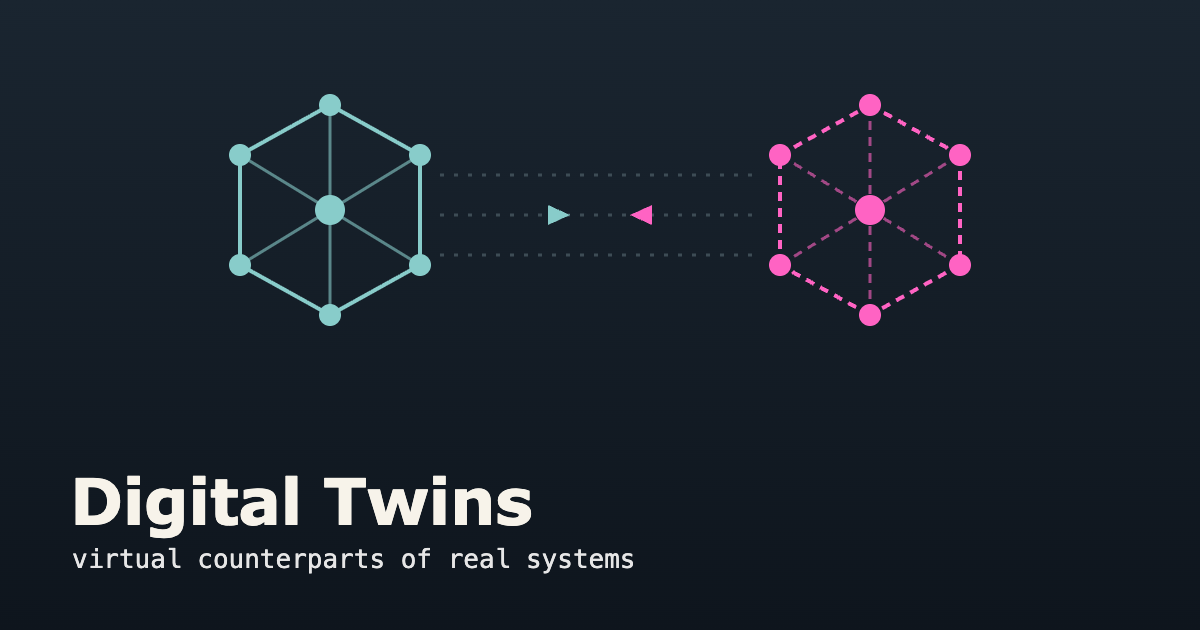
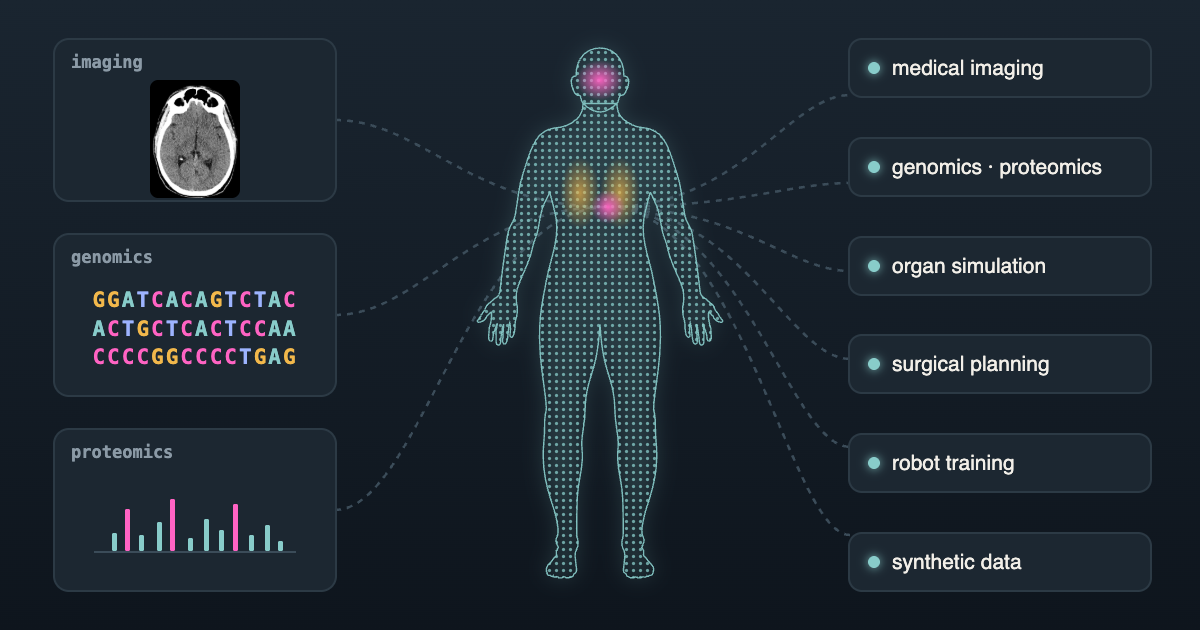
Write the Digital Twins project page with a virtual-human thumbnail
The page sets out the problem, four research questions and the Virtual
Humans goal. The thumbnail shows imaging, genomic and proteomic data
flowing into a virtual human that feeds healthcare tasks; its CT slice and
silhouette are CC0 (provenance in figures/digitaltwins_thumbnail).

diff --git a/pages/works/digital-twins.js b/pages/works/digital-twins.js
@@ -1,24 +1,77 @@
-import { Container, Badge, List, ListItem } from '@chakra-ui/react'
-import { Title, WorkImage, Meta } from '../../components/work'
+import {
+  Container,
+  Badge,
+  Heading,
+  OrderedList,
+  ListItem
+} from '@chakra-ui/react'
+import { Title, WorkImage } from '../../components/work'
 import P from '../../components/paragraph'
 import Layout from '../../components/layouts/article'
+import Section from '../../components/section'
+import Publication from '../../components/publication'
+import publications from '../../lib/publications'
 import thumb from '../../public/images/works/digitaltwins_eyecatch.png'
+
+const papers = publications.filter(p =>
+  (p.projects || []).includes('digital-twins')
+)
 
 const Work = () => (
   <Layout title="Digital Twins">
-    <Container>
+    <Container pb={8}>
       <Title>
         Digital Twins <Badge>Research</Badge>
       </Title>
-      <P>Details coming soon.</P>
-      <List ml={4} my={4}>
+      <WorkImage
+        src={thumb.src}
+        alt="A patient's imaging, genomic and proteomic data flowing into a virtual human, which feeds tasks such as organ simulation, surgical planning, robot training and synthetic data"
+      />
+      <P>
+        Medicine still learns mostly from real patients. Every new drug, device,
+        surgical plan or AI model is tested on people, or on data collected from
+        them one modality at a time: imaging shows anatomy, sequencing shows the
+        genome, proteomics shows molecular state, and no single model ties them
+        together into a patient we can safely run experiments on. This project
+        asks how to build digital twins: computational models of a
+        patient&apos;s organs and biology that can be simulated, queried and
+        perturbed in place of the real person. Four questions guide it:
+      </P>
+      <OrderedList spacing={0.5} my={3} pl={10}>
         <ListItem>
-          <Meta>Area</Meta>
-          <span>Digital twins</span>
+          How can imaging, genomics and proteomics be fused into one model that
+          stays consistent from molecules to cells to organs?
         </ListItem>
-      </List>
+        <ListItem>
+          Can a twin built from a patient&apos;s own scans predict how an organ
+          responds to a drug, a device or a surgical intervention?
+        </ListItem>
+        <ListItem>
+          Can a twin generate realistic, labelled synthetic data to train
+          medical AI and surgical robots without exposing patient records?
+        </ListItem>
+        <ListItem>
+          How do we validate a twin against the real patient, so a clinician
+          knows when its predictions can be trusted?
+        </ListItem>
+      </OrderedList>
+      <P style={{ textIndent: 0 }}>
+        Our final goal is Virtual Humans: digital twins of the whole patient
+        that can serve any task in healthcare, from imaging and multimodal
+        genomics and proteomics to organ studies, surgical planning, training
+        robotic models and generating synthetic data.
+      </P>
 
-      <WorkImage src={thumb.src} alt="Digital Twins" />
+      {papers.length > 0 && (
+        <Section delay={0.1}>
+          <Heading as="h3" variant="section-title">
+            Related Publications
+          </Heading>
+          {papers.map(p => (
+            <Publication key={p.title} p={p} />
+          ))}
+        </Section>
+      )}
     </Container>
   </Layout>
 )

diff --git a/figures/digitaltwins_thumbnail/gen.py b/figures/digitaltwins_thumbnail/gen.py
@@ -1,0 +1,72 @@
+"""Digital Twins thumbnail (1200x630): patient data -> virtual human -> healthcare tasks.
+Assets (both CC0, Wikimedia Commons): 'CT of a normal brain, axial 22.png' (cropped, ct.png)
+and 'Human silhouette gender neutral front.svg' by Sebastian Wallroth (path in human_d.txt)."""
+import sys, os, random
+here = os.path.dirname(os.path.abspath(sys.argv[0])); out = sys.argv[1]
+D = open(os.path.join(here, "human_d.txt")).read()
+TEAL, PINK, AMBER, MUT = "#88ccca", "#ff63c3", "#f2b84b", "#8b9aa6"
+# silhouette placement from the measured path bbox (x 5.49..152.51, y 21.03..338.49) -> height 530
+BX, BY, BW, BH = 5.49, 21.03, 147.02, 317.46
+SC = 530 / BH; HX, HY = 600 - (BX + BW / 2) * SC, 48 - BY * SC
+def P(x, y): return HX + x * SC, HY + y * SC
+random.seed(5)
+seq = "".join(random.choice("ACGT") for _ in range(84))
+col = {"A": TEAL, "C": PINK, "G": AMBER, "T": "#9db4ff"}
+seq_rows = "".join(
+    '<div class="seq">' + "".join(f'<span style="color:{col[c]}">{c}</span>' for c in seq[i:i+14]) + "</div>"
+    for i in range(0, 42, 14))
+peaks = [(0.08, .35), (0.15, .8), (0.22, .3), (0.31, .55), (0.38, 1.0), (0.47, .25), (0.55, .62), (0.63, .4),
+         (0.7, .9), (0.78, .3), (0.86, .5), (0.93, .2)]
+spec = "".join(f'<rect x="{6+x*196:.0f}" y="{60-h*52:.0f}" width="5" height="{h*52:.0f}" rx="1.5" fill="{PINK if h>0.75 else TEAL}"/>' for x, h in peaks)
+tiles = [
+  ("imaging", f'<img src="ct.png" style="height:118px;border-radius:8px;display:block">'),
+  ("genomics", seq_rows),
+  ("proteomics", f'<svg width="210" height="66"><line x1="4" y1="61" x2="206" y2="61" stroke="#3b4c59" stroke-width="2"/>{spec}</svg>'),
+]
+tile_html = "".join(f'<div class="tile"><div class="lab">{l}</div><div class="body">{b}</div></div>' for l, b in tiles)
+tasks = ["medical imaging", "genomics &middot; proteomics", "organ simulation", "surgical planning",
+         "robot training", "synthetic data"]
+task_html = "".join(f'<div class="task"><span class="dot"></span>{t}</div>' for t in tasks)
+hx, hy = P(79, 40); lx, ly = P(67, 108); rx, ry = P(91, 108); cx, cy = P(84, 116)
+organs = (f'<ellipse cx="{hx:.0f}" cy="{hy:.0f}" rx="24" ry="20" fill="url(#gp)"/>'
+          f'<ellipse cx="{lx:.0f}" cy="{ly:.0f}" rx="20" ry="36" fill="url(#gt)"/>'
+          f'<ellipse cx="{rx:.0f}" cy="{ry:.0f}" rx="20" ry="36" fill="url(#gt)"/>'
+          f'<circle cx="{cx:.0f}" cy="{cy:.0f}" r="17" fill="url(#gp)"/>')
+# connectors: tiles -> body, body -> tasks
+conn = ""
+for y in (120, 315, 510):
+    conn += f'<path d="M335 {y} C 420 {y}, 470 {cy:.0f}, {cx:.0f} {cy:.0f}" fill="none" stroke="#3b4c59" stroke-width="2.5" stroke-dasharray="6 6"/>'
+for i in range(6):
+    y = 95 + i * 88
+    conn += f'<path d="M{cx:.0f} {cy:.0f} C 740 {cy:.0f}, 790 {y}, 850 {y}" fill="none" stroke="#3b4c59" stroke-width="2.5" stroke-dasharray="6 6"/>'
+html = f"""<!doctype html><meta charset=utf-8><style>
+*{{box-sizing:border-box}} html,body{{margin:0;width:1200px;height:630px;overflow:hidden}}
+body{{background:linear-gradient(180deg,#1a2530,#0e151d);font-family:Helvetica,Arial,sans-serif;color:#e6e6e6;position:relative}}
+svg.bg{{position:absolute;left:0;top:0}}
+.col{{position:absolute;left:55px;top:40px;width:280px;height:550px;display:flex;flex-direction:column;justify-content:space-between}}
+.tile{{height:160px;border-radius:14px;background:#1c2731;box-shadow:0 0 0 2px #2c3a45;padding:12px 16px;display:flex;flex-direction:column;gap:8px}}
+.lab{{font:600 17px Menlo,monospace;color:{MUT}}}
+.body{{flex:1;display:flex;flex-direction:column;justify-content:center;align-items:center}}
+.seq{{font:700 21px Menlo,monospace;letter-spacing:2px;line-height:1.35}}
+.tasks{{position:absolute;left:850px;top:40px;width:300px;height:550px;display:flex;flex-direction:column;justify-content:space-between}}
+.task{{height:56px;border-radius:12px;background:#1c2731;box-shadow:0 0 0 2px #2c3a45;display:flex;align-items:center;gap:12px;padding:0 18px;font-size:21px;color:#f2efe8}}
+.dot{{width:12px;height:12px;border-radius:50%;background:{TEAL};box-shadow:0 0 10px {TEAL}}}
+.vh{{position:absolute;left:520px;top:596px;width:160px;text-align:center;font:600 16px Menlo,monospace;color:{MUT}}}
+</style>
+<svg class="bg" width="1200" height="630">
+ <defs>
+  <pattern id="dots" width="7" height="7" patternUnits="userSpaceOnUse"><circle cx="3.5" cy="3.5" r="1.6" fill="{TEAL}" opacity=".75"/></pattern>
+  <radialGradient id="gp"><stop offset="0" stop-color="{PINK}" stop-opacity=".95"/><stop offset="1" stop-color="{PINK}" stop-opacity="0"/></radialGradient>
+  <radialGradient id="gt"><stop offset="0" stop-color="{AMBER}" stop-opacity=".7"/><stop offset="1" stop-color="{AMBER}" stop-opacity="0"/></radialGradient>
+  <clipPath id="body"><path d="{D}" transform="translate({HX:.1f} {HY}) scale({SC:.4f})"/></clipPath>
+  <filter id="glow"><feGaussianBlur stdDeviation="6"/></filter>
+ </defs>
+ {conn}
+ <path d="{D}" transform="translate({HX:.1f} {HY}) scale({SC:.4f})" fill="{TEAL}" opacity=".18" filter="url(#glow)"/>
+ <rect x="440" y="30" width="320" height="580" fill="url(#dots)" clip-path="url(#body)"/>
+ <path d="{D}" transform="translate({HX:.1f} {HY}) scale({SC:.4f})" fill="none" stroke="{TEAL}" stroke-width="{1.4/SC:.3f}" opacity=".9"/>
+ <g clip-path="url(#body)">{organs}</g>
+</svg>
+<div class="col">{tile_html}</div>
+<div class="tasks">{task_html}</div>"""
+open(out, "w").write(html)

diff --git a/figures/digitaltwins_thumbnail/SOURCE.md b/figures/digitaltwins_thumbnail/SOURCE.md
@@ -1,0 +1,10 @@
+# Digital Twins thumbnail
+
+- CT slice: "CT of a normal brain, axial 22.png", Wikimedia Commons, CC0 1.0. Cropped to the
+  axial view (`ct.png`).
+  https://commons.wikimedia.org/wiki/File:CT_of_a_normal_brain,_axial_22.png
+- Figure: "Human silhouette gender neutral front.svg" by Sebastian Wallroth, Wikimedia Commons,
+  CC0 1.0. Body and head paths in `human_d.txt`.
+  https://commons.wikimedia.org/wiki/File:Human_silhouette_gender_neutral_front.svg
+- Genomic sequence and proteomic peaks are decorative placeholders, not data.
+- Build: `python3 gen.py thumb.html` in this folder, then screenshot at 1200x630 in headless Chrome.
